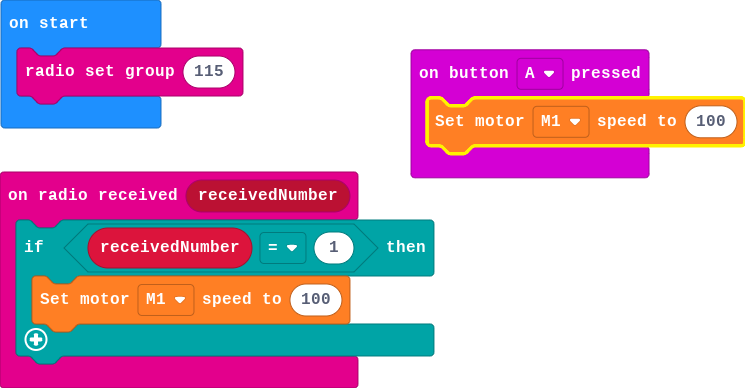
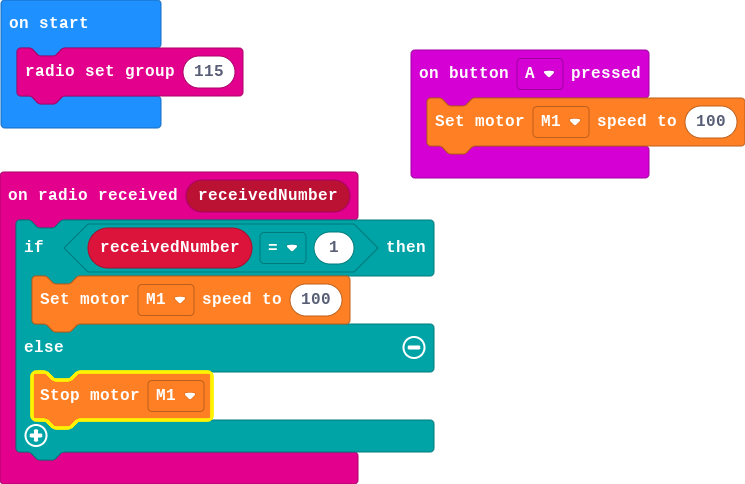
Update main.blocks, main.ts

diff --git a/main.ts b/main.ts
@@ -1,6 +1,8 @@
 radio.onReceivedNumber(function (receivedNumber) {
     if (receivedNumber == 1) {
         wuKong.setMotorSpeed(wuKong.MotorList.M1, 100)
+    } else {
+        wuKong.stopMotor(wuKong.MotorList.M1)
     }
 })
 input.onButtonPressed(Button.A, function () {
